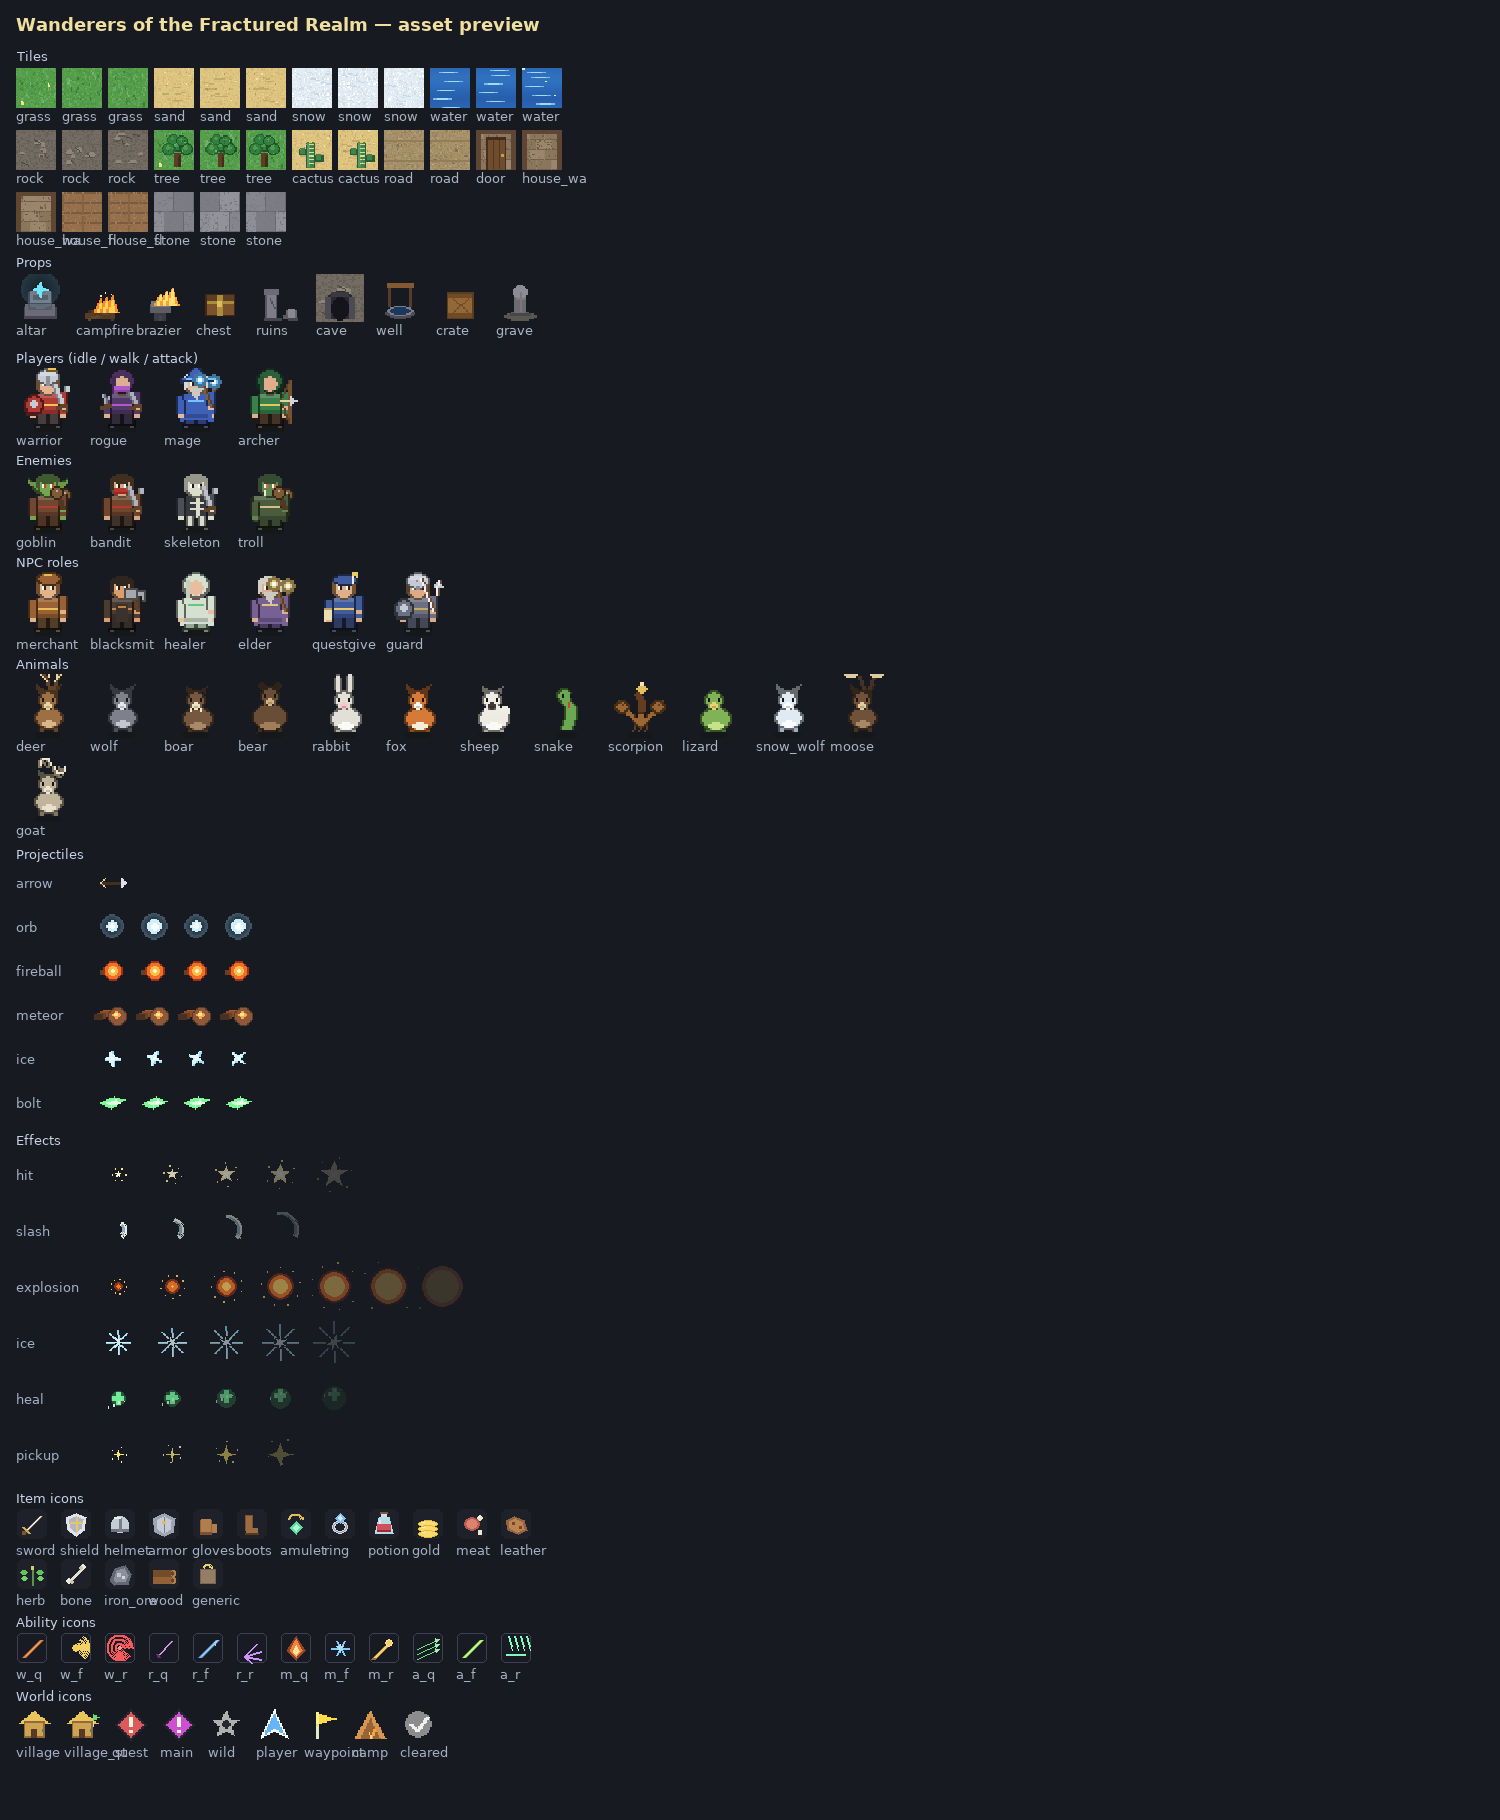
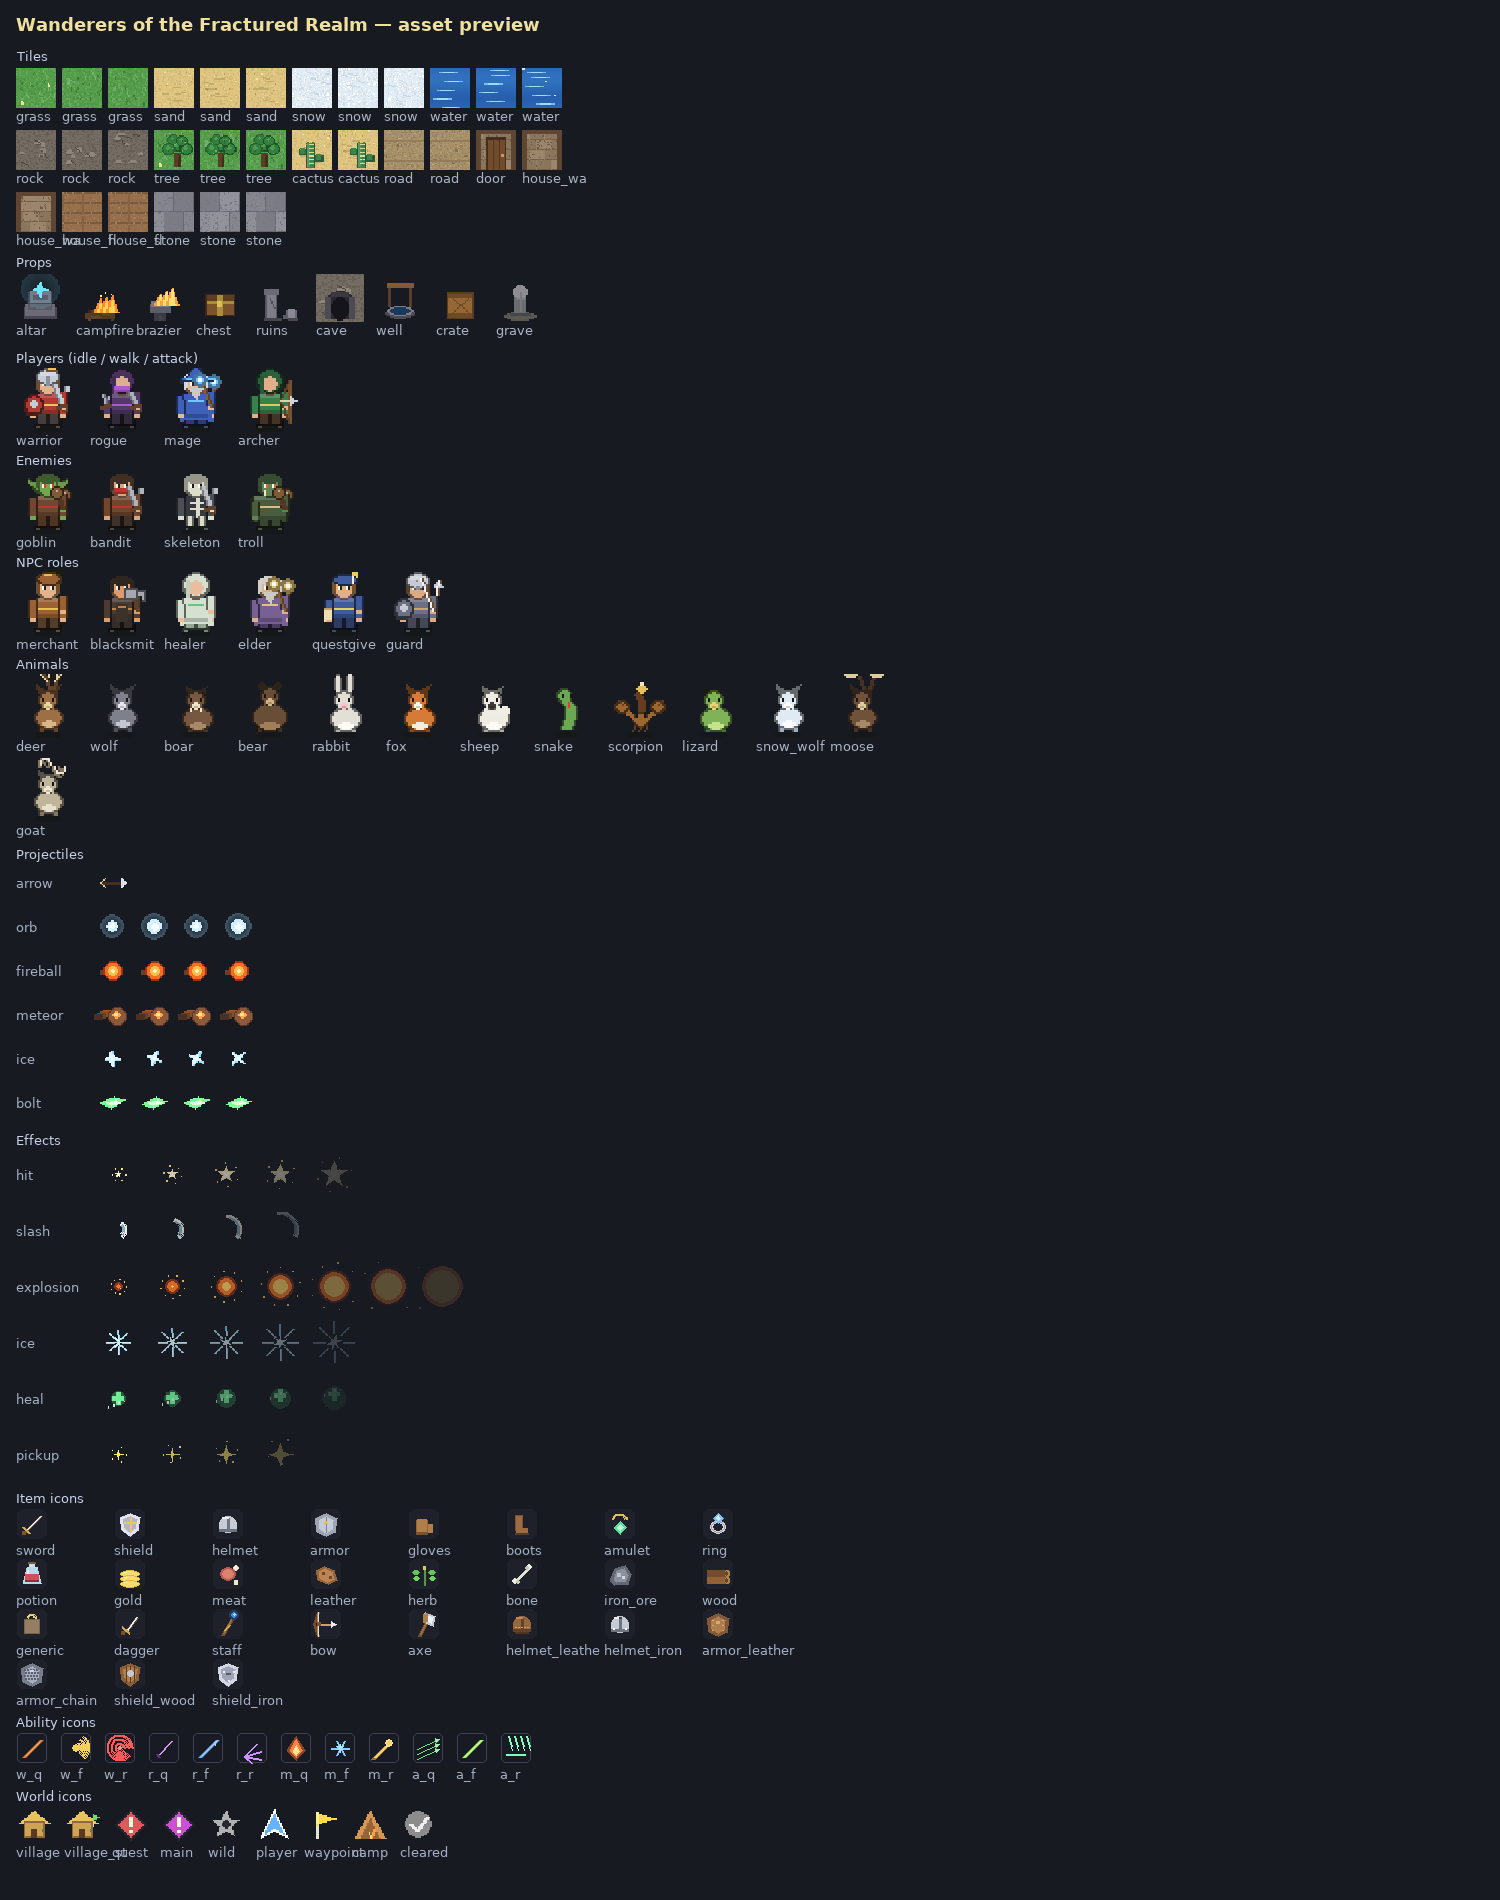
Minor changes to texture rendering; a rendering bug has been fixed.
Changes to be committed:
	modified:   assets/icons.png
	modified:   assets/manifest.json
	modified:   assets/preview.png
    modified:   core/assets.py

diff --git a/core/assets.py b/core/assets.py
@@ -17,6 +17,42 @@ ASSET_ROOT = Path(__file__).resolve().parent.parent / "assets"
 
 UNIT_GROUPS = ("players", "enemies", "npcs", "animals")
 
+# Иконка по префиксу item_id (sword_iron..., bow_wood..., staff_oak...).
+# Ключи могут быть полными id шаблона: побеждает самый длинный префикс.
+ITEM_ID_ICONS = {
+    "sword": "sword",
+    "dagger": "dagger",
+    "staff": "staff",
+    "bow": "bow",
+    "axe": "axe",
+    "shield": "shield",
+    "helmet": "helmet",
+    "armor": "armor",
+    "gloves": "gloves",
+    "boots": "boots",
+    "amulet": "amulet",
+    "ring": "ring",
+    "shield_wood": "shield_wood",
+    "shield_iron": "shield_iron",
+    "helmet_leather": "helmet_leather",
+    "helmet_iron": "helmet_iron",
+    "armor_leather": "armor_leather",
+    "armor_chain": "armor_chain",
+}
+
+# Запасной вариант — по типу предмета.
+ITEM_TYPE_ICONS = {
+    "weapon": "sword",
+    "shield": "shield",
+    "helmet": "helmet",
+    "armor": "armor",
+    "gloves": "gloves",
+    "boots": "boots",
+    "amulet": "amulet",
+    "ring": "ring",
+    "consumable": "potion",
+}
+
 
 def facing_from_delta(dx: float, dy: float, default: str = "down") -> str:
     if abs(dx) < 0.01 and abs(dy) < 0.01:
@@ -41,6 +77,7 @@ class AssetManager:
         self._images: dict[str, pg.Surface] = {}
         self._tile_cache: dict[tuple, list[pg.Surface]] = {}
         self._frames_cache: dict[tuple, list[pg.Surface]] = {}
+        self._grid_cache: dict[tuple, pg.Surface | None] = {}
         self._tint_cache: dict[tuple, list[pg.Surface]] = {}
         self._scale_cache: dict[tuple, pg.Surface] = {}
         self._tile_colors: dict[str, tuple] = {}
@@ -62,6 +99,7 @@ class AssetManager:
         self._images.clear()
         self._tile_cache.clear()
         self._frames_cache.clear()
+        self._grid_cache.clear()
         self._tint_cache.clear()
         self._scale_cache.clear()
         self._tile_colors.clear()
@@ -313,18 +351,26 @@ class AssetManager:
     # Иконки
     # ------------------------------------------------------------------
     def _grid_frame(self, group, index_name):
+        cache_key = (group, index_name)
+        if cache_key in self._grid_cache:
+            return self._grid_cache[cache_key]
         meta = self.manifest.get(group)
         if not meta:
+            self._grid_cache[cache_key] = None
             return None
         pos = meta.get("index", {}).get(index_name)
         if pos is None:
+            self._grid_cache[cache_key] = None
             return None
         sheet = self.image(meta["sheet"])
         if sheet is None:
+            self._grid_cache[cache_key] = None
             return None
         c, r = pos
         fw, fh = meta.get("frame", [32, 32])
-        return self._sub(sheet, c * fw, r * fh, fw, fh)
+        frame = self._sub(sheet, c * fw, r * fh, fw, fh)
+        self._grid_cache[cache_key] = frame
+        return frame
 
     def named_icon(self, name):
         """Иконка предмета по имени из листа icons (gold, potion, sword...)."""
@@ -332,26 +378,34 @@ class AssetManager:
 
     def item_icon(self, item):
         key = getattr(item, "item_id", "generic")
+        index = self.manifest.get("icons", {}).get("index", {})
+
         if key == "gold":
-            icon_key = "gold"
-        elif getattr(item, "item_type", None) is not None:
-            icon_key = {
-                "weapon": "sword",
-                "shield": "shield",
-                "helmet": "helmet",
-                "armor": "armor",
-                "gloves": "gloves",
-                "boots": "boots",
-                "amulet": "amulet",
-                "ring": "ring",
-                "consumable": "potion",
-                "resource": key,
-            }.get(item.item_type.value, "generic")
-            if icon_key == key and icon_key not in self.manifest.get("icons", {}).get("index", {}):
+            return self.named_icon("gold")
+
+        # Ищем самый длинный ключ, совпадающий с началом item_id:
+        # bow_wood -> bow, helmet_leather -> helmet_leather.
+        best = None
+        for prefix in ITEM_ID_ICONS:
+            if key == prefix or key.startswith(prefix + "_"):
+                if best is None or len(prefix) > len(best):
+                    best = prefix
+        if best is not None:
+            icon_key = ITEM_ID_ICONS[best]
+            if icon_key in index:
+                return self.named_icon(icon_key)
+
+        item_type = getattr(item, "item_type", None)
+        if item_type is not None:
+            type_value = item_type.value
+            icon_key = ITEM_TYPE_ICONS.get(type_value)
+            if type_value == "resource" and key in index:
+                icon_key = key
+            if icon_key not in index:
                 icon_key = "generic"
-        else:
-            icon_key = "generic"
-        return self._grid_frame("icons", icon_key)
+            return self.named_icon(icon_key)
+
+        return self.named_icon("generic")
 
     def ability_icon(self, ability_id):
         return self._grid_frame("abilities", ability_id)
